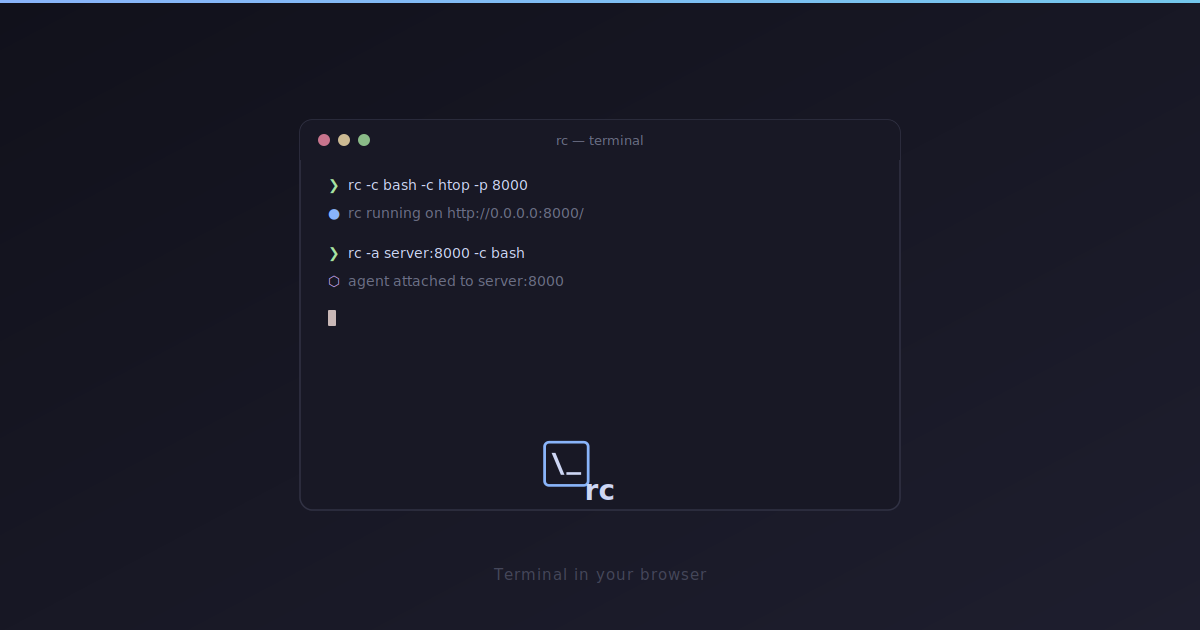
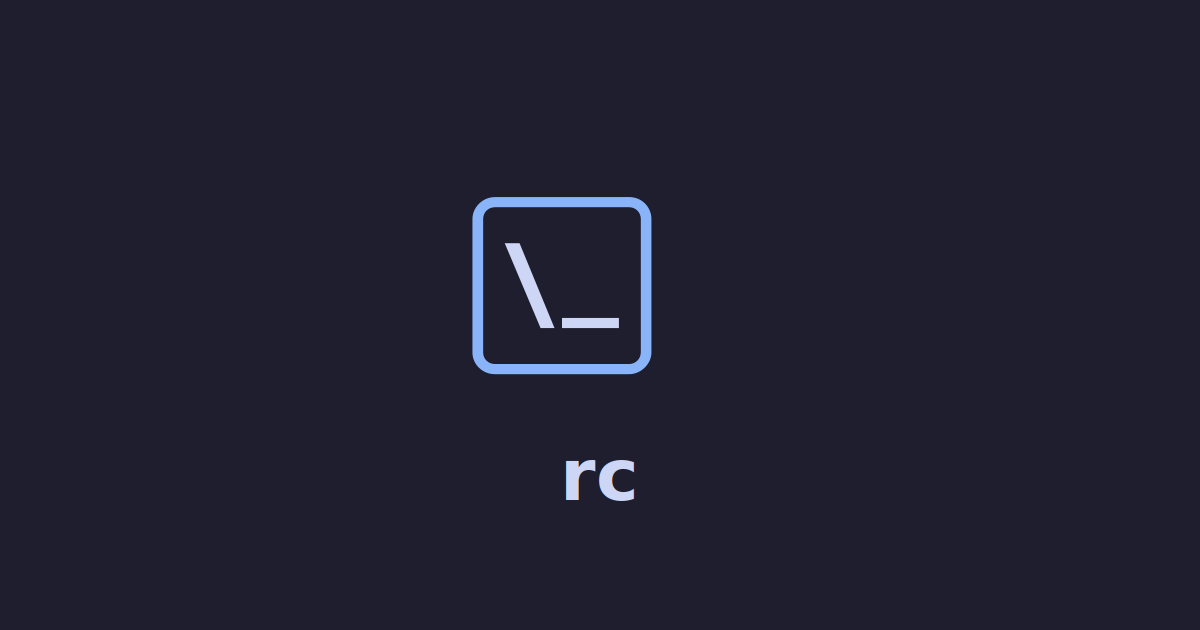
feat: install cmds in token modal, compact OG image, tab rename placeholder, website link, skip beforeunload on update
- Token modal: OS-specific install commands (Linux/macOS/Windows) in collapsible section
- OG image: simplified to logo + 'rc' text only
- Tab rename: empty input shows placeholder with original tab name
- Tab menu: added rc.huny.dev external link
- Auto-update reload skips the beforeunload confirmation

diff --git a/static/index.html b/static/index.html
@@ -506,6 +506,13 @@
       color: #f9e2af; font-size: 12px; margin-top: 8px; text-align: center;
     }
     .token-error-msg { color: #f38ba8; font-size: 13px; margin-top: 8px; }
+    .token-os-tab {
+      background: #1e1e2e; border: 1px solid #313244; border-radius: 6px;
+      color: #6c7086; font-size: 11px; padding: 4px 0; cursor: pointer;
+      transition: background 0.15s, color 0.15s, border-color 0.15s;
+    }
+    .token-os-tab:hover { color: #a6adc8; }
+    .token-os-tab.active { background: #313244; color: #cdd6f4; border-color: #89b4fa; }
     .token-box .token-close {
       margin-top: 16px; width: 100%; padding: 8px; border-radius: 8px;
       border: 1px solid #313244; background: #1e1e2e; color: #cdd6f4;
@@ -598,6 +605,11 @@
           <svg width="14" height="14" viewBox="0 0 24 24" fill="none" stroke="currentColor" stroke-width="2" stroke-linecap="round"><circle cx="12" cy="12" r="10"/><line x1="12" y1="16" x2="12" y2="12"/><line x1="12" y1="8" x2="12.01" y2="8"/></svg>
           About &amp; Licenses
         </button>
+        <div class="menu-sep"></div>
+        <button class="menu-item" id="menu-website" role="menuitem">
+          <svg width="14" height="14" viewBox="0 0 24 24" fill="none" stroke="currentColor" stroke-width="2" stroke-linecap="round"><path d="M18 13v6a2 2 0 0 1-2 2H5a2 2 0 0 1-2-2V8a2 2 0 0 1 2-2h6"/><polyline points="15 3 21 3 21 9"/><line x1="10" y1="14" x2="21" y2="3"/></svg>
+          rc.huny.dev
+        </button>
         <button class="menu-item danger" id="menu-logout" style="display:none" role="menuitem">
           <svg width="14" height="14" viewBox="0 0 24 24" fill="none" stroke="currentColor" stroke-width="2" stroke-linecap="round"><path d="M9 21H5a2 2 0 0 1-2-2V5a2 2 0 0 1 2-2h4"/><polyline points="16 17 21 12 16 7"/><line x1="21" y1="12" x2="9" y2="12"/></svg>
           Logout
@@ -659,6 +671,23 @@
           </button>
         </div>
         <div class="token-expiry" id="token-expiry"></div>
+        <div class="menu-sep" style="margin:12px 0 8px"></div>
+        <details id="token-install-section" style="margin-top:4px;">
+          <summary style="color:#a6adc8; font-size:12px; cursor:pointer; user-select:none;">Don't have <code style="font-size:11px;">rc</code> installed?</summary>
+          <div style="margin-top:8px;">
+            <div style="display:flex; gap:4px; margin-bottom:6px;">
+              <button class="token-os-tab active" data-os="linux" style="flex:1;">Linux</button>
+              <button class="token-os-tab" data-os="mac" style="flex:1;">macOS</button>
+              <button class="token-os-tab" data-os="windows" style="flex:1;">Windows</button>
+            </div>
+            <div class="token-example" id="token-install-cmd">
+              <code id="token-install-code" style="color:#cdd6f4; font-size:11px; white-space:pre-wrap;"></code>
+              <button class="token-copy" id="token-copy-install" title="Copy install command">
+                <svg viewBox="0 0 24 24" fill="none" stroke="currentColor" stroke-width="2" stroke-linecap="round"><rect x="9" y="9" width="13" height="13" rx="2" ry="2"/><path d="M5 15H4a2 2 0 0 1-2-2V4a2 2 0 0 1 2-2h9a2 2 0 0 1 2 2v1"/></svg>
+              </button>
+            </div>
+          </div>
+        </details>
       </div>
       <div id="token-error" style="display:none">
         <h3><svg width="16" height="16" viewBox="0 0 24 24" fill="none" stroke="#f38ba8" stroke-width="2" stroke-linecap="round"><circle cx="12" cy="12" r="10"/><line x1="15" y1="9" x2="9" y2="15"/><line x1="9" y1="9" x2="15" y2="15"/></svg> Error</h3>
@@ -1181,6 +1210,7 @@
       input.type = 'text';
       input.className = 'tab-rename-input';
       input.value = currentText;
+      input.placeholder = t.name;
       input.style.width = Math.max(60, label.offsetWidth + 8) + 'px';
 
       function commit() {
@@ -2183,6 +2213,7 @@
 
         showUpdateSection('update-done');
         // Server is restarting; auto-reload after a delay
+        skipBeforeUnload = true;
         setTimeout(() => { location.reload(); }, 4000);
       } catch (e) {
         document.getElementById('update-error-msg').textContent = e.message;
@@ -2208,6 +2239,12 @@
     });
     infoModal.addEventListener('click', (e) => {
       if (e.target === infoModal) infoModal.classList.remove('visible');
+    });
+
+    // rc.huny.dev website link
+    document.getElementById('menu-website').addEventListener('click', () => {
+      menuPopup.classList.remove('visible');
+      window.open('https://rc.huny.dev', '_blank', 'noopener');
     });
 
     // Help & Docs
@@ -2302,6 +2339,31 @@
       }
     });
 
+    // Install commands per OS
+    const installCmds = {
+      linux: 'curl -fsSL https://github.com/hunydev/rc/releases/latest/download/rc-linux-amd64 -o /usr/local/bin/rc && chmod +x /usr/local/bin/rc',
+      mac: 'curl -fsSL https://github.com/hunydev/rc/releases/latest/download/rc-darwin-arm64 -o /usr/local/bin/rc && chmod +x /usr/local/bin/rc',
+      windows: 'curl -fsSL https://github.com/hunydev/rc/releases/latest/download/rc-windows-amd64.exe -o rc.exe'
+    };
+    let tokenSelectedOs = 'linux';
+    function updateInstallCmd() {
+      document.getElementById('token-install-code').textContent = installCmds[tokenSelectedOs];
+    }
+    document.querySelectorAll('.token-os-tab').forEach(btn => {
+      btn.addEventListener('click', () => {
+        document.querySelectorAll('.token-os-tab').forEach(b => b.classList.remove('active'));
+        btn.classList.add('active');
+        tokenSelectedOs = btn.dataset.os;
+        updateInstallCmd();
+      });
+    });
+    updateInstallCmd();
+    document.getElementById('token-copy-install').addEventListener('click', () => {
+      if (navigator.clipboard) {
+        navigator.clipboard.writeText(installCmds[tokenSelectedOs]).then(() => tokenCopyFeedback(document.getElementById('token-copy-install')));
+      }
+    });
+
     // Logout
     menuLogout.addEventListener('click', () => {
       menuPopup.classList.remove('visible');
@@ -2310,8 +2372,10 @@
       location.reload();
     });
 
+    let skipBeforeUnload = false;
     window.addEventListener('beforeunload', (e) => {
       if (ws) ws.close();
+      if (skipBeforeUnload) return;
       e.preventDefault();
     });
 
